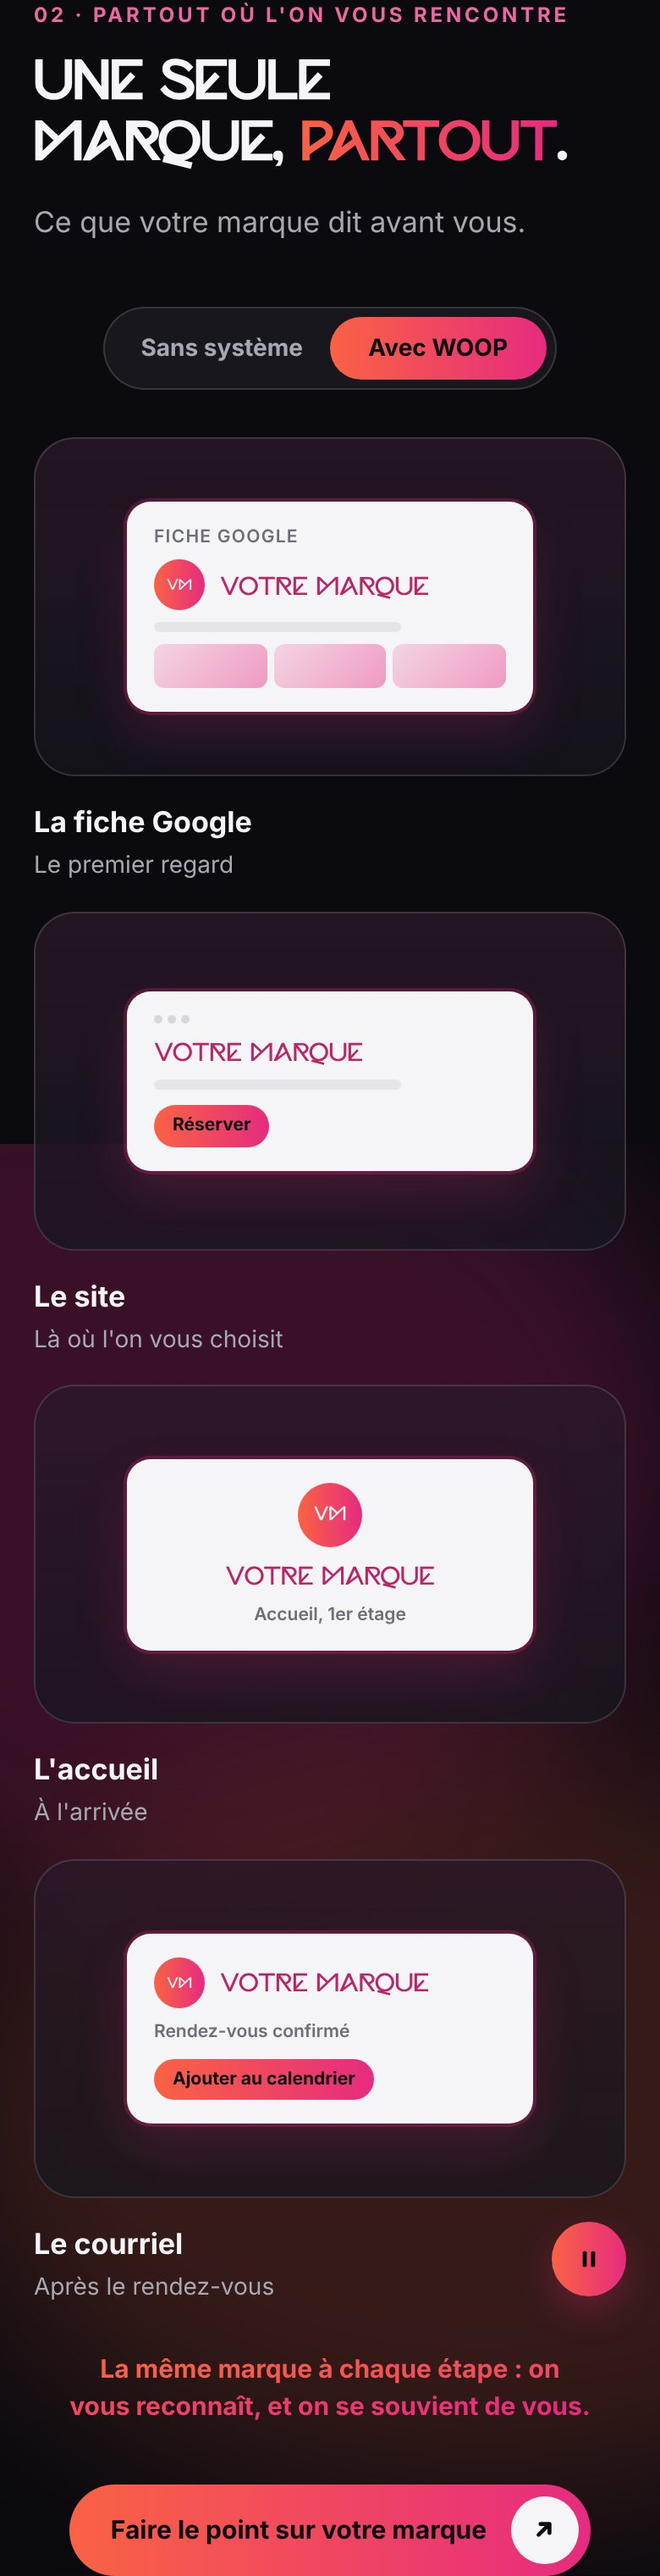
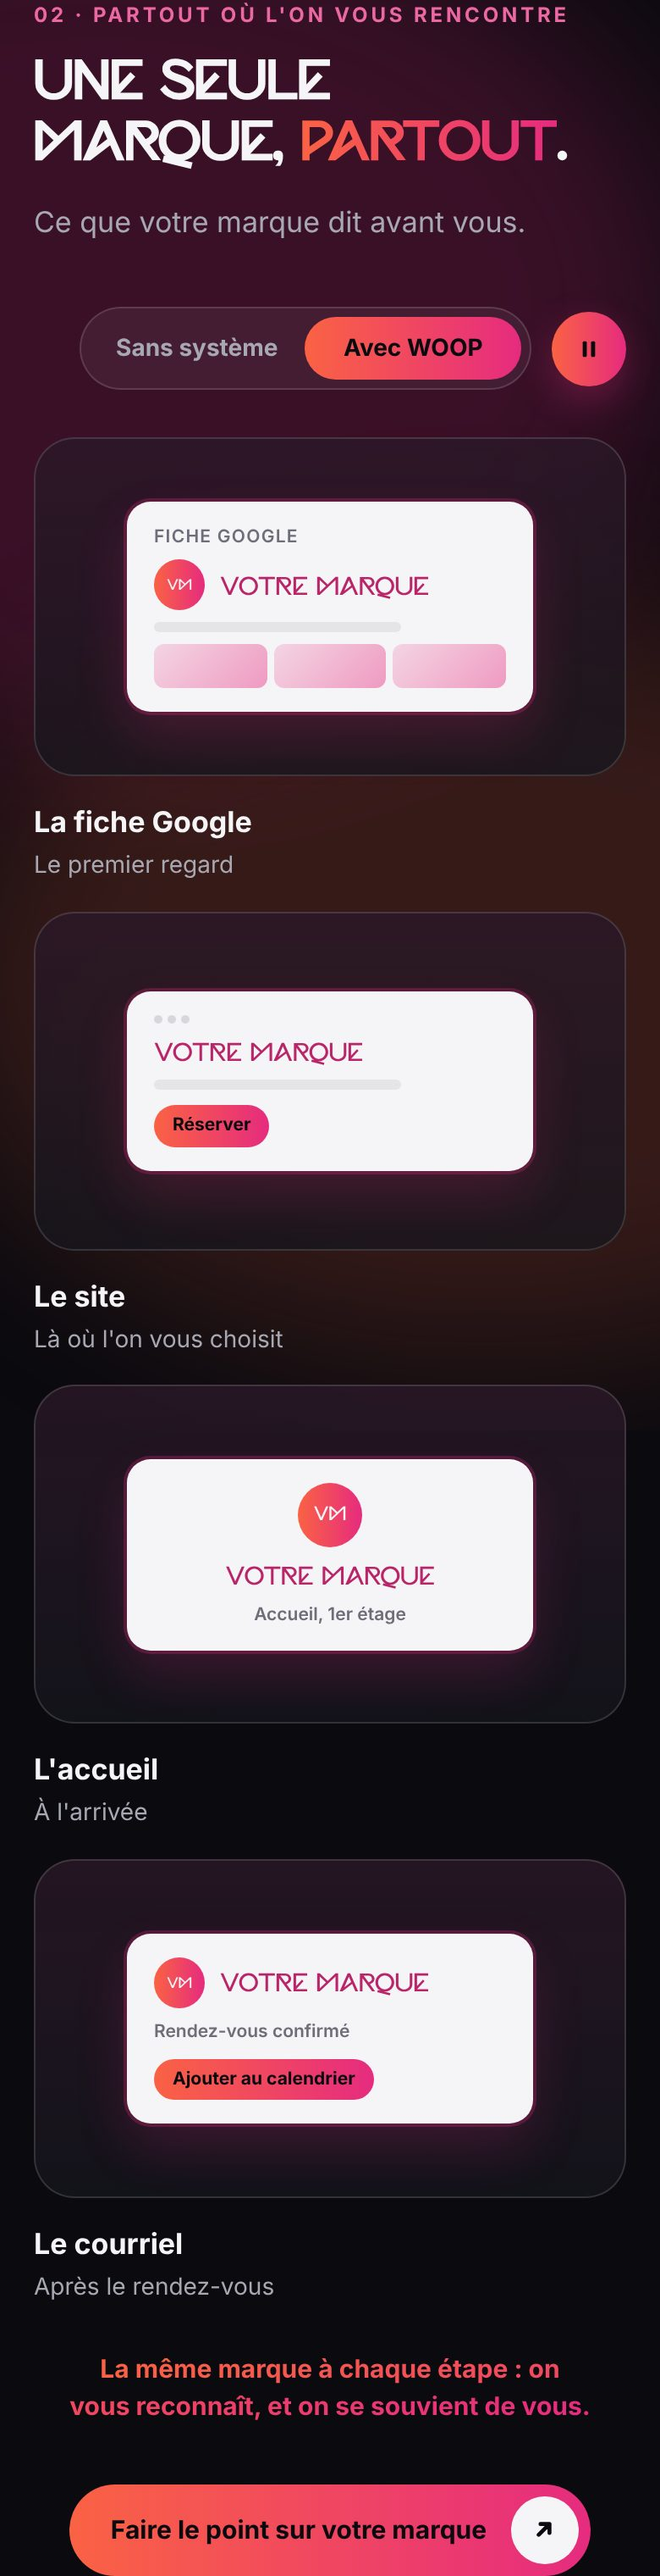
Image de marque : bouton Pause près de la pastille sur cellulaire et tablette, H1 sans coupure des groupes
- Section 02 : sous 1100 px (cartes empilées ou en 2 x 2), le bouton Pause/Lecture est à droite
  de la pastille, aligné avec elle ; dès 1100 px, il reste en bas à droite des cartes.
  Comportement, taille et accessibilité inchangés.
- H1 : « au premier regard, » et « au premier appel. » ne sont plus coupés (white-space: nowrap
  par groupe, dégradé conservé) ; sous 385 px, le 1er groupe est plus large que la colonne et
  peut se couper plutôt que de déborder.
- Tests : emplacement du bouton à 1440 et 390 px ; captures du hero (1920 à 360 px) et de la
  section 02.

Claude-Session: https://claude.ai/code/session_01QiN6EzAa7GW4dfaCoBoWZW

diff --git a/tools/regression/README.md b/tools/regression/README.md
@@ -20,7 +20,7 @@ lance pas.
 |---|---|---|
 | `snapshot.cjs` | Compile le site et relève : fichiers de `dist/` (empreintes SHA-256), HTML normalisé, title, meta, canonique et JSON-LD, styles calculés de chaque élément (et `::before`, `::after`) à 1440 et 390 px, captures pleine page des 30 pages à 1440, 1100, 900, 390 et 360 px | ~5 min |
 | `compare.cjs` | Compare deux relevés et écrit `rapport.md` (et des images `diff/` pour les captures qui diffèrent). Code de sortie 1 s'il y a une différence | ~10 s |
-| `behavior.cjs` | Tests de comportement (77) : page Contact (`?personne=`, `?source=quiz&score=`, `sessionStorage`, Formspree simulé, `generate_lead`, Meta `Contact`), quiz complet du Test de visibilité, barre collante sur les 4 pages (hero, bandeau final, bannière CookieYes, 1440, 390 et 360 px), parcours animé du hero de Santé et RH (étapes allumées une à une, puis reprise ; immobile avec le mouvement réduit), carrousel de l'Équipe (10 s, onglets, survol, bouton, clavier, toucher, mouvement réduit, sans JavaScript, hauteur fixe), alternance « Sans système » / « Avec WOOP » de la page Image de marque (1er changement à 1,5 s après l'apparition, puis 5 s, aucune pause au survol, bouton Pause / Lecture, pastille sans arrêt de la rotation, focus clavier, hors de l'écran, mouvement réduit, 390 px), pagination du blog, ancres et barres finales des liens | ~2 min 30 |
+| `behavior.cjs` | Tests de comportement (78) : page Contact (`?personne=`, `?source=quiz&score=`, `sessionStorage`, Formspree simulé, `generate_lead`, Meta `Contact`), quiz complet du Test de visibilité, barre collante sur les 4 pages (hero, bandeau final, bannière CookieYes, 1440, 390 et 360 px), parcours animé du hero de Santé et RH (étapes allumées une à une, puis reprise ; immobile avec le mouvement réduit), carrousel de l'Équipe (10 s, onglets, survol, bouton, clavier, toucher, mouvement réduit, sans JavaScript, hauteur fixe), alternance « Sans système » / « Avec WOOP » de la page Image de marque (1er changement à 1,5 s après l'apparition, puis 5 s, aucune pause au survol, bouton Pause / Lecture (à droite de la pastille sur cellulaire, en bas à droite des cartes sur ordinateur), pastille sans arrêt de la rotation, focus clavier, hors de l'écran, mouvement réduit, 390 px), pagination du blog, ancres et barres finales des liens | ~2 min 30 |
 
 Deux contrôles complémentaires, pour les PR qui déplacent du CSS dans des composants :
 
